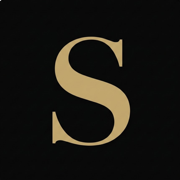
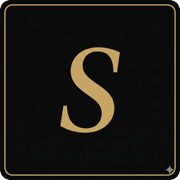
Replace generated assets with custom branded images
- OG image: custom social card with Stocky wordmark
- Favicon: gold S with border on black
- Apple touch icon: same S mark at 180x180
- Logo mark: abstract ascending stroke
- Remove dynamic OG/Twitter image generators

Changed region(s): [[0.0, 0.0, 1.0, 1.0], [0.2778, 0.4167, 0.7222, 0.8333], [0.2778, 0.1944, 0.6944, 0.5833]]

diff --git a/src/app/layout.tsx b/src/app/layout.tsx
@@ -36,12 +36,21 @@ export const metadata: Metadata = {
     siteName: "Stocky",
     locale: "en_US",
     type: "website",
+    images: [
+      {
+        url: "/og-image.png",
+        width: 1200,
+        height: 630,
+        alt: "Stocky — Precision. Discipline. Edge.",
+      },
+    ],
   },
   twitter: {
     card: "summary_large_image",
     title: "Stocky — Precision. Discipline. Edge.",
     description:
       "An AI trading engine built for the few who think in payoffs, not predictions.",
+    images: ["/og-image.png"],
   },
 };
 
